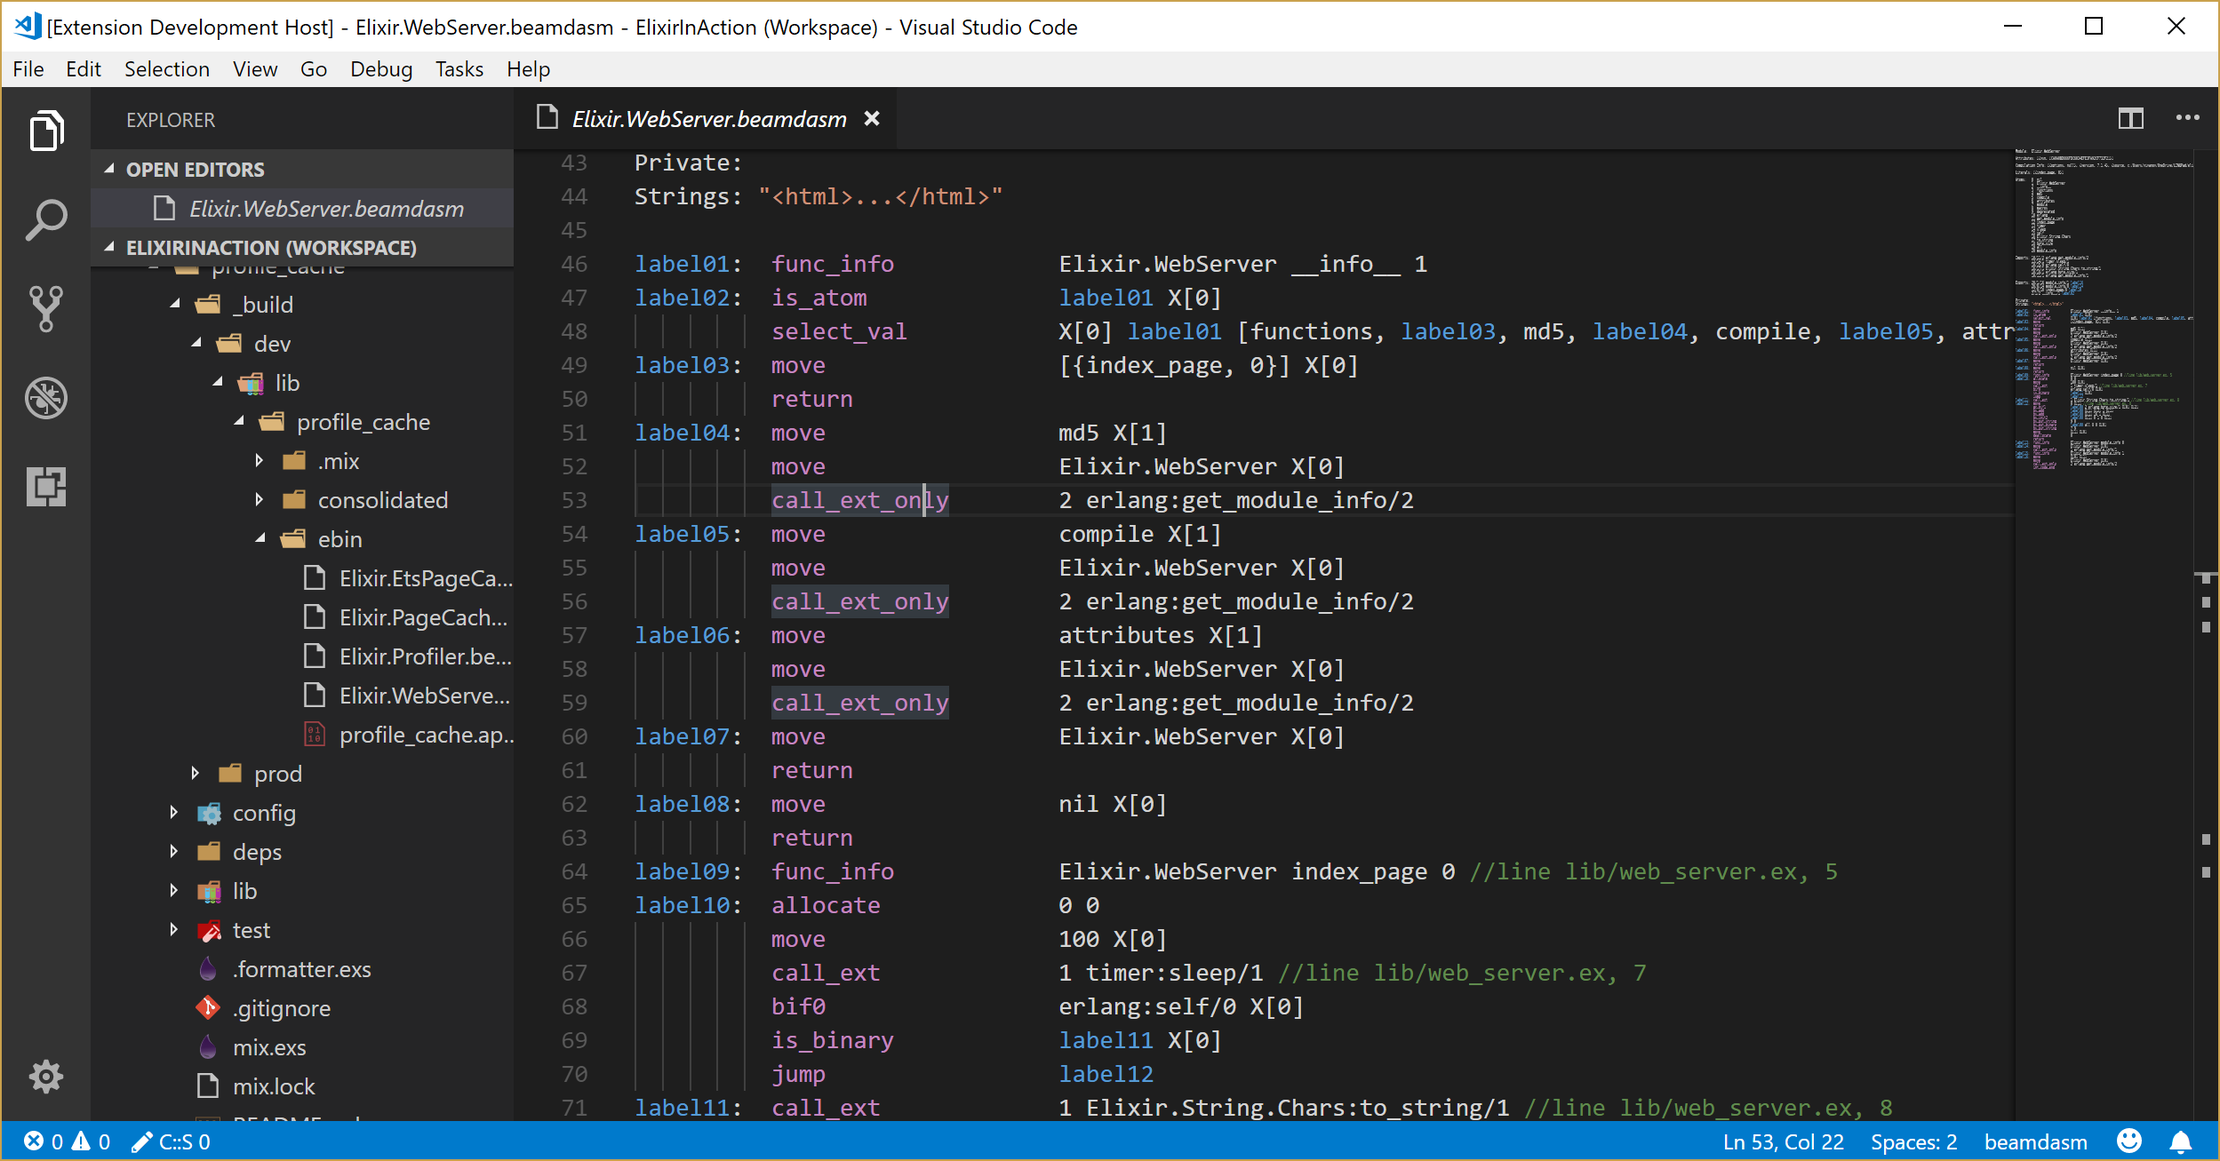
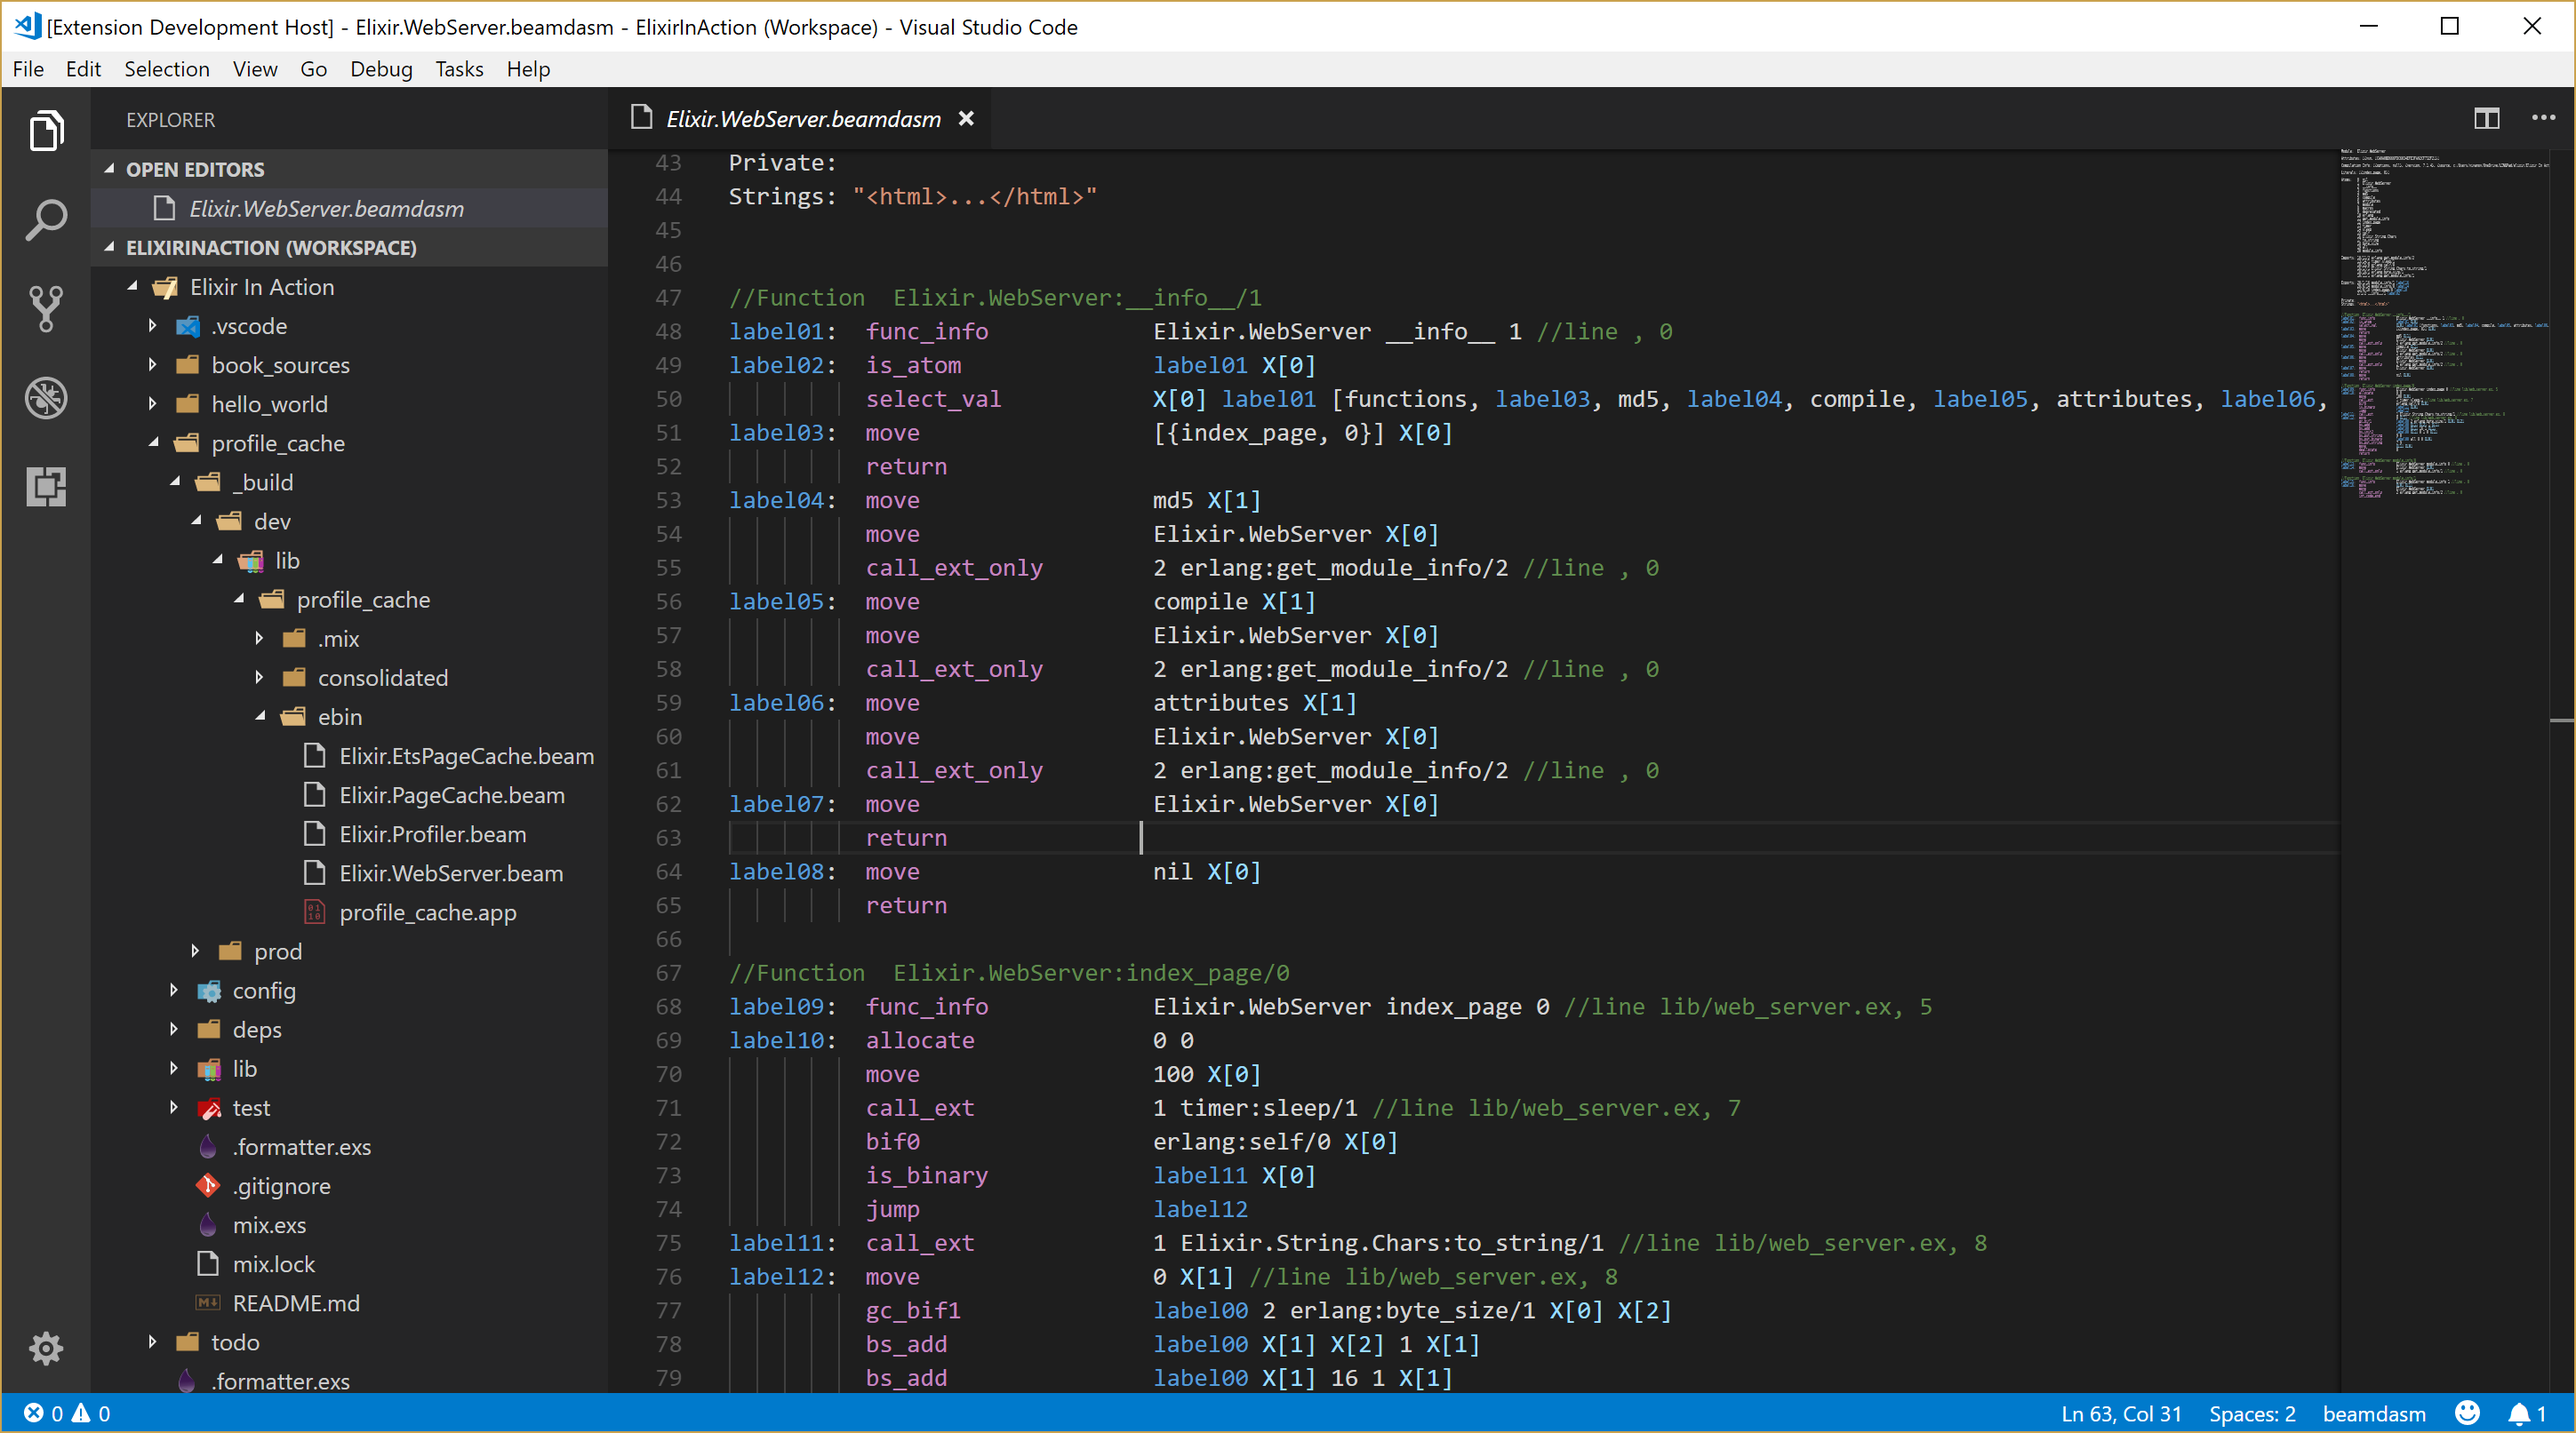
Improved formatting

diff --git a/src/beam/beamFile.ts b/src/beam/beamFile.ts
@@ -54,78 +54,97 @@ export default class BeamFile {
   readBeamFile(filePath: string) {
     let buffer: Buffer = fs.readFileSync(filePath);
 
-    let for1 = buffer.toString('utf8', 0, 4);
+    let for1 = buffer.toString('utf8', 0, 4).toLowerCase();
 
-    if (for1 !== "FOR1") {
+    if (for1 !== "for1") {
       throw Error("Not a valid BEAM binary");
     }
 
     let length = buffer.readUInt32BE(4);
 
-    let beam = buffer.toString('utf8', 8, 12);
+    let beam = buffer.toString('utf8', 8, 12).toLowerCase();
 
-    if (beam !== "BEAM") {
+    if (beam !== "beam") {
       throw Error("Not a valid BEAM binary");
     }
 
     let offset = 12;
 
-    while (offset < length) {
-      var chunkName = buffer.toString('utf8', offset, offset + 4);
-      offset += 4;
-      var chunkLength = buffer.readUInt32BE(offset);
-      var chunkStart = offset + 4;
+    let chunks : any = {};
+    //Quick scan to get chunks offsets and sizes
+    //We want to read them in particular order, not the order
+    //chunks are present in the file
+    while ( offset < length )
+    {
+      let name = buffer.toString('utf8', offset, offset+4);
+      let size = buffer.readUInt32BE(offset+4);
 
-      switch (chunkName) {
-        case 'AtU8':
-          this.readAttomsChunk(buffer, chunkStart);
-          break;
-        case 'Code':
-          this.readCodeChunk(buffer, chunkStart, chunkLength);
-          break;
-        case 'ImpT':
-          this.readImportChunk(buffer, chunkStart);
-          break;
-        case 'ExpT':
-          this.readExportChunk(buffer, chunkStart);
-          break;
-        case 'FunT':
-          this.readFunctionChunk(buffer, chunkStart);
-          break;
-        case 'LocT':
-          this.readLocalChunk(buffer, chunkStart);
-          break;
-        case 'StrT':
-          this.readStringChunk(buffer, chunkStart, chunkLength);
-          break;
-        case 'CInf':
-          this.readCompilationInfoChunk(buffer, chunkStart);
-          break;
-        case 'Attr':
-          this.readAttributesChunk(buffer, chunkStart);
-          break;
-        case 'LitT':
-          this.readLiteralsChunk(buffer, chunkStart, chunkLength);
-          break;
-        case 'Line':
-          this.readLineChunk(buffer, chunkStart);
-          break;
-        case 'ExDc':
-          //this.readExDcChunk(buffer, chunkStart, chunkLength);
-          break;
-        case 'ExDp':
-          //this.readExDpChunk(buffer, chunkStart);
-          break;
-        case 'Dbgi':
-          //this.readDbgiChunk(buffer, chunkStart, chunkLength);
-          break;
-        default:
-          console.log(`Reading chunk: ${chunkName}(${chunkLength} bytes) is not implemented.`);
-          break;
-      }
+      chunks[name.toLowerCase()] = {start: offset + 8, length: size};
 
-      var nextChunk = ((chunkLength + 3) >> 2) << 2;
-      offset = chunkStart + nextChunk;
+      offset = offset + 8 + (((size + 3)>>2)<<2);
+      console.log(name);
+    }
+
+    this._atoms = ['nil'];
+
+    if( 'atu8' in chunks ){
+      this.readAttomsChunk(buffer, chunks['atu8'].start, true);
+    }
+
+    if( 'atom' in chunks ){
+      this.readAttomsChunk(buffer, chunks['atom'].start, false);
+    }
+
+    if( 'impt' in chunks ){      
+      this.readImportChunk(buffer, chunks['impt'].start);
+    }
+
+    if( 'expt' in chunks ){
+      this.readExportChunk(buffer, chunks['expt'].start);
+    }
+
+    if( 'funt' in chunks ){
+      this.readFunctionChunk(buffer, chunks['funt'].start);
+    }
+
+    if( 'loct' in chunks ){
+      this.readLocalChunk(buffer, chunks['loct'].start);
+    }
+
+    if( 'strt' in chunks ){
+      this.readStringChunk(buffer, chunks['strt'].start, chunks['strt'].length);
+    }
+
+    if( 'cinf' in chunks ){
+      this.readCompilationInfoChunk(buffer, chunks['cinf'].start);
+    }
+
+    if( 'attr' in chunks ){
+      this.readAttributesChunk(buffer, chunks['attr'].start);
+    }
+
+    if( 'litt' in chunks ){
+      this.readLiteralsChunk(buffer, chunks['litt'].start, chunks['litt'].length);
+    }
+
+    if( 'line' in chunks ) {
+      this.readLineChunk(buffer, chunks['line'].start);
+    }
+
+    // if( 'exdc' in chunks ) {
+    //   this.readExDcChunk(buffer, chunks['exdc'].start, chunks['exdc'].length);
+    // }
+
+    // if( 'exdp' in chunks ) {
+    //   this.readExDpChunk(buffer, chunks['exdp'].start);
+    // }
+
+    // if( 'dbgi' in chunks ) {
+    //   this.readDbgiChunk(buffer, chunks['dbgi'].start, chunks['dbgi'].length);
+    // }
+
+    if( 'code' in chunks ){
+      this.readCodeChunk(buffer, chunks['code'].start, chunks['code'].length);
     }
   }
 
@@ -326,15 +345,14 @@ export default class BeamFile {
     this.readBeamVmCode(buffer, offset, length - 20);
   }
 
-  readAttomsChunk(buffer: Buffer, offset: number) {
-    this._atoms = ["nil"];
+  readAttomsChunk(buffer: Buffer, offset: number, utf: boolean) {
 
     let nAtoms = buffer.readUInt32BE(offset);
     offset += 4;
 
     while (nAtoms-- > 0) {
       let atomLength = buffer.readUInt8(offset);
-      let atom = buffer.toString('utf8', offset + 1, offset + 1 + atomLength);
+      let atom = buffer.toString(utf ? 'utf8' : 'latin1', offset + 1, offset + 1 + atomLength);
       offset = offset + 1 + atomLength;
       this._atoms.push(atom);
     }
@@ -445,21 +463,23 @@ export default class BeamFile {
     return { data: buffer.toString('utf8', offset, offset + length), offset: offset + length };
   }
 
+  readonly hex: (d:number) => string = (d: number) => ("0" + d.toString(16)).slice(-2).toUpperCase();
+
   readSmallBigNum(buffer: Buffer, offset: number): any {
-    const hex = (d: number) => ("0" + d.toString(16)).slice(-2).toUpperCase();
     let length = buffer.readUInt8(offset++);
     let sign = buffer.readUInt8(offset++);
 
     let result = sign === 0 ? "" : "-" + "0x";
 
     for (let i = 0; i < length; i++) {
-      result += hex(buffer.readUInt8(offset + i));
+      result += this.hex(buffer.readUInt8(offset + i));
     }
 
     return { data: result, offse: offset + length };
   }
 
   readTag(value: number): number {
+    //TODO: Get otp20 from file, somewhere?
     let otp20 = true;
     let index = value & 0x07;
 
@@ -468,7 +488,7 @@ export default class BeamFile {
     }
 
     if (index > 11) {
-      return tags.TAG_UNKNOWN;
+      index = tags.TAG_UNKNOWN;
     }
 
     return index;
@@ -603,8 +623,10 @@ export default class BeamFile {
     return { tag: tag, data: "", offset: sizeObject.offset };
   }
 
-
   readBeamVmCode(buffer: Buffer, offset: number, length: number) {
+
+    let line = null;
+    let label = null;
 
     length = offset + length;
     while (offset < length) {
@@ -613,6 +635,7 @@ export default class BeamFile {
       if (byteCode > 163) {
         console.log(`Illegal opcode ${byteCode}`);
       }
+      
 
       // if( byteCode === 125 ){
       //   console.log('fdiv');
@@ -624,7 +647,20 @@ export default class BeamFile {
         offset = obj.offset;
         list.push(obj);
       }
-      this._code.push({ op: byteCode, params: list });
+
+      if( byteCode === 1){
+        label = list;
+        continue;
+      }
+
+      if( byteCode === 153 ){
+        line = list;
+        continue;
+      }
+      
+      this._code.push({ op: byteCode, params: list, label: label, line: line });
+      line = null;
+      label = null;
     }
   }
 }

diff --git a/src/codeFormatter.ts b/src/codeFormatter.ts
@@ -18,7 +18,7 @@ import BeamFile from './beam/beamFile';
 import { opcodes } from './beam/opcodes';
 import * as tags from './beam/tags';
 
-let lbl: any;
+let lbl: (val: number) => string;
 
 export function formatCode(bm: BeamFile): string {
 
@@ -45,17 +45,12 @@ export function formatCode(bm: BeamFile): string {
   for (let i = 0; i < bm._code.length; i++) {
     let obj = bm._code[i];
 
-    if (obj.op === 1) {
-      label = obj;
-      continue;
-    } else if (obj.op === 153) {
-      line = obj;
-      continue;
+    if( obj.op === 2){      
+      str += `\n//Function  ${bm._atoms[obj.params[0].data]}:${bm._atoms[obj.params[1].data]}/${obj.params[2].data}\n`;
     }
 
-    if (label) {
-      str += `label${lbl(label.params[0].data)}:`;
-      label = null;
+    if (obj.label) {
+      str += `label${lbl(obj.label[0].data)}:`;
     } else {
       str += ' '.repeat(lblLength + 6);
     }
@@ -83,18 +78,15 @@ export function formatCode(bm: BeamFile): string {
       str += instructionToString(bm, obj, -1);
     }
 
-    if (line) {
+    if (obj.line) {
       //skip zero lines
-      if (line.params[0].data !== 0) {
-        let line_ref = bm._line_refs[line.params[0].data];
+      //if (obj.line[0].data !== 0) {
+        let line_ref = bm._line_refs[obj.line[0].data];
         str += ` //line ${bm._line_fnames[line_ref[0]]}, ${line_ref[1]}`;
-      }
-
-      line = null;
+      //}
     }
 
     str += '\n';
-
   }
   return str;
 }

diff --git a/README.md b/README.md
@@ -3,6 +3,8 @@
 [![GitHub issues](https://img.shields.io/github/issues/scout119/beamdasm.svg)](https://github.com/scout119/beamdasm/issues)
 [![GitHub license](https://img.shields.io/github/license/scout119/beamdasm.svg)](https://github.com/scout119/beamdasm/blob/master/LICENSE.md)
 [![VS Code marketplace](https://vsmarketplacebadge.apphb.com/installs/Valentin.beamdasm.svg)](https://marketplace.visualstudio.com/items?itemName=Valentin.beamdasm)
+![GitHub stars](https://img.shields.io/github/scout119/beamdasm/shields.svg?style=social&label=Stars)
+
 
 BEAM files disassembler extension for Visual Studio Code
 
@@ -24,7 +26,7 @@ To activate the extension select "Disassemble BEAM" from the context menu for a 
 
 ## Requirements
 
-If you have any requirements or dependencies, add a section describing those and how to install and configure them.
+Visual Studio Code 1.21.0
 
 ## Extension Settings
 
@@ -37,6 +39,15 @@ None
 ## Release Notes
 
 Initial previe release
+
+## Contributing
+
+1. Fork ![Fork Me](https://img.shields.io/github/forks/scout119/beamdasm.svg?style=social&label=Fork%20Me)
+2. Create your branch
+3. Commit your changes
+4. Push to the branch
+5. Submit a pull request
+6. (Optional) Send me a beer
 
 ## License
 

diff --git a/CHANGELOG.md b/CHANGELOG.md
@@ -4,9 +4,14 @@ All notable changes to the "beamdasm" extension will be documented in this file.
 The format is based on [Keep a Changelog](http://keepachangelog.com/en/1.0.0/)
 and this project adheres to [Semantic Versioning](http://semver.org/spec/v2.0.0.html).
 
-
 ## [Unreleased]
 
+- Configurarable setting to change format of the disassembled code
+
+## 0.0.2 - 2018-04-03
+
+- Added function separation
 
 ## 0.0.1 - 2018-03-31
+
 - Initial release
